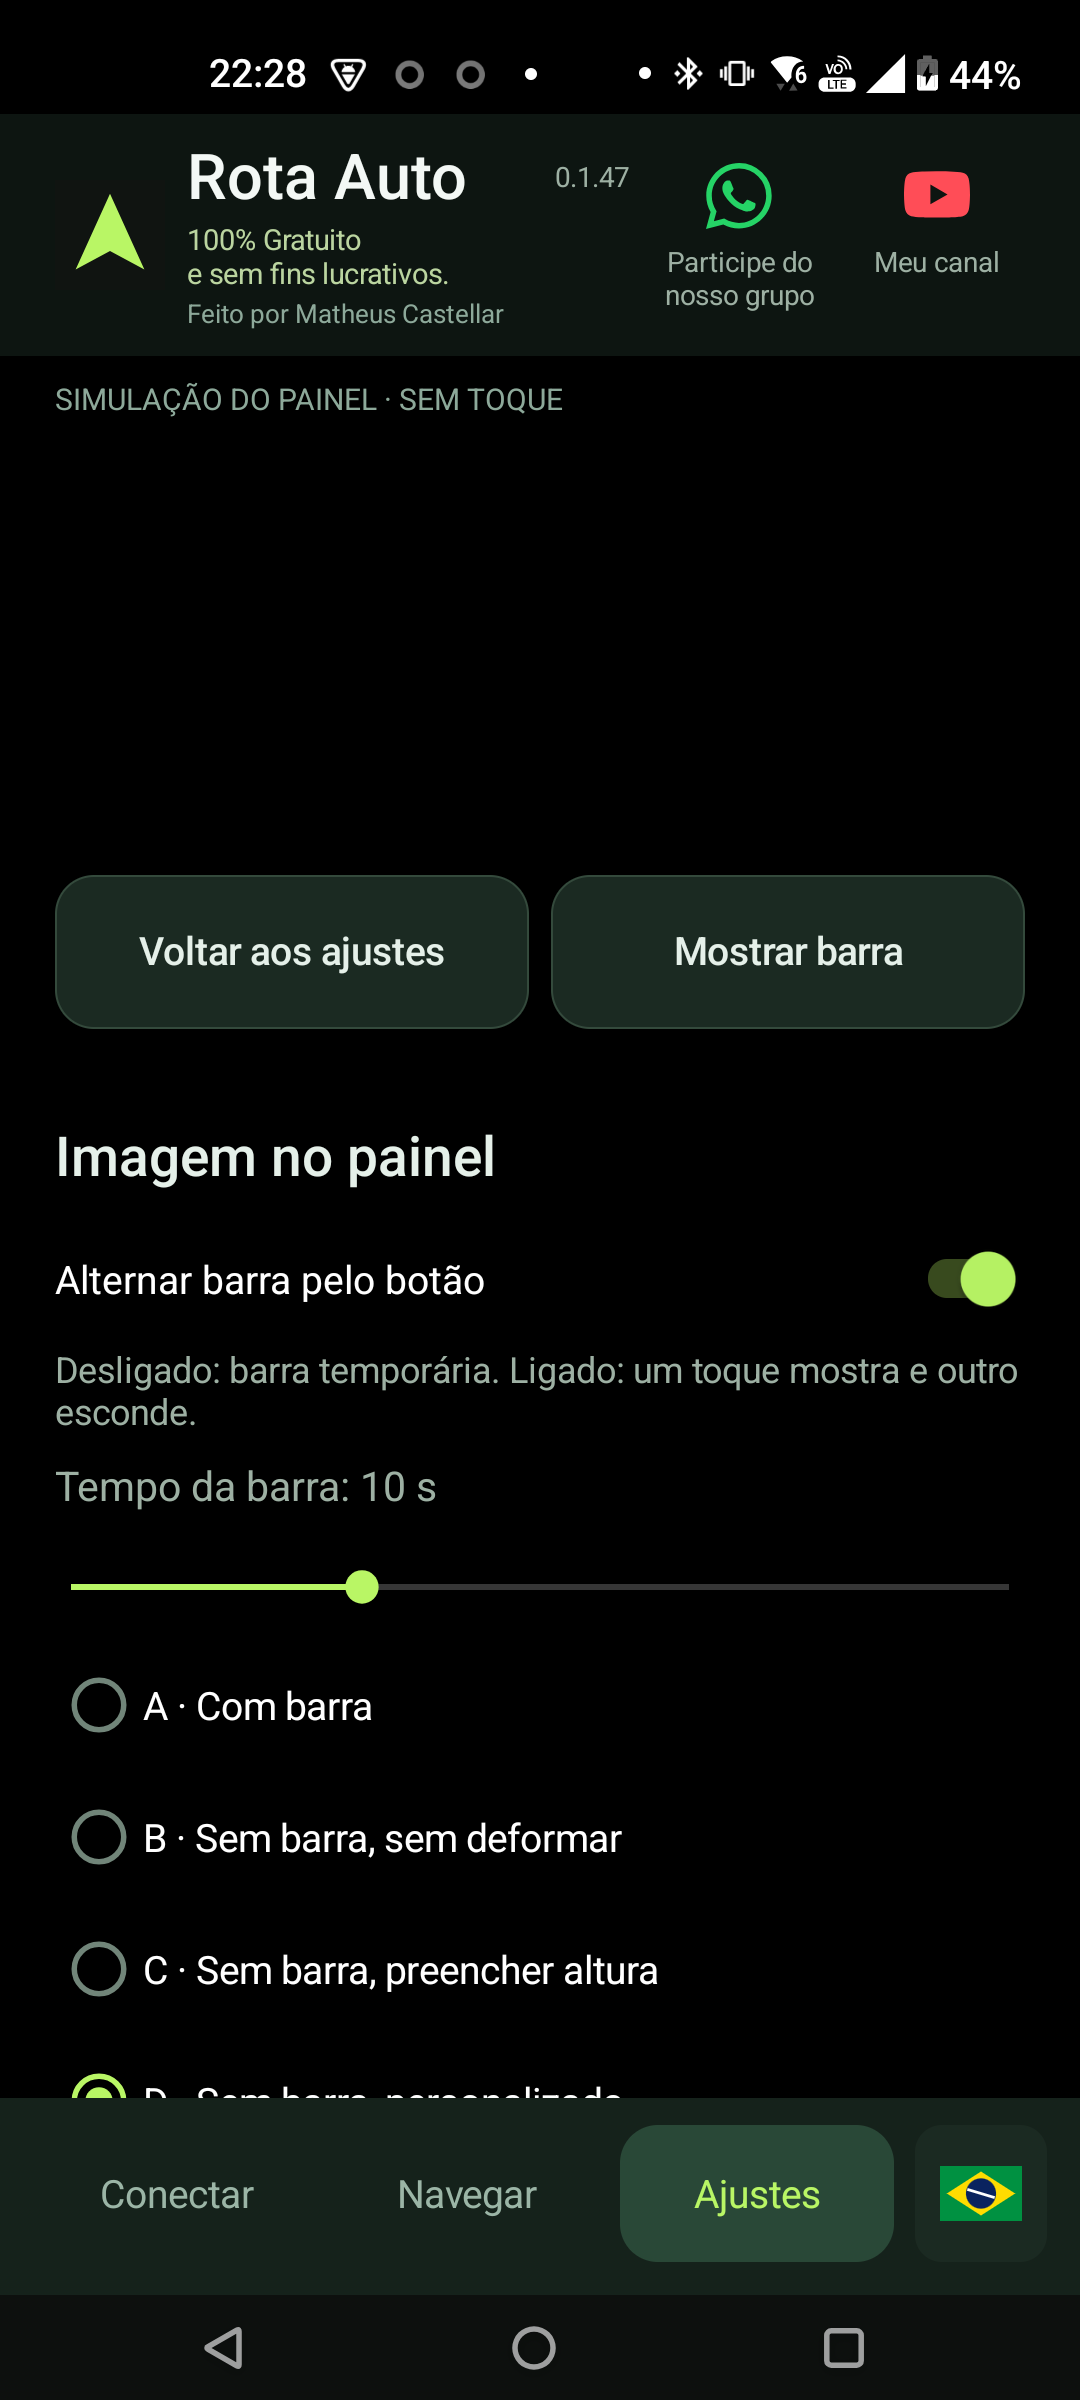
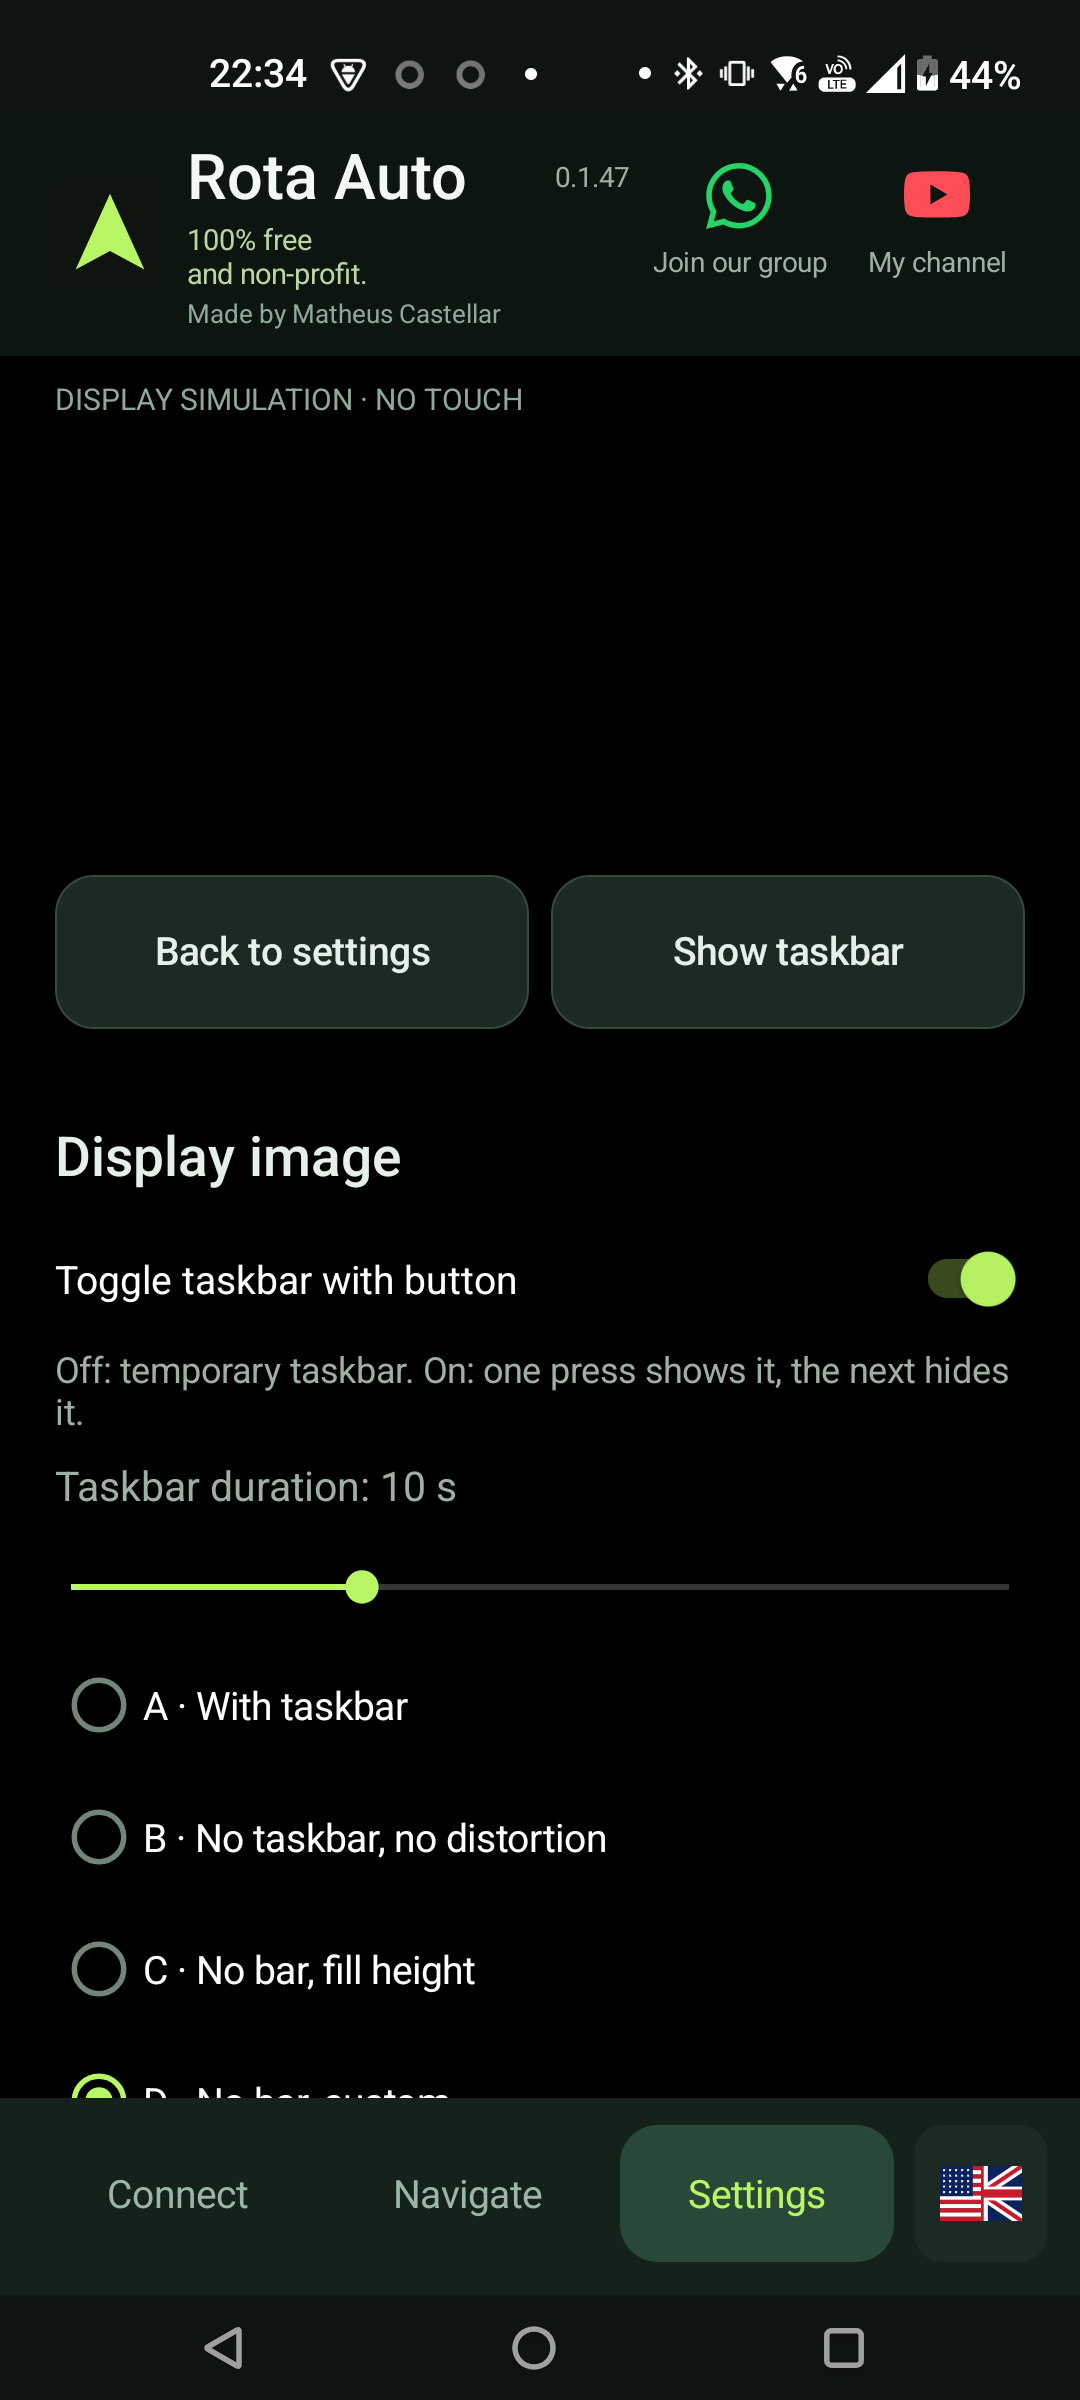
Use English app screenshots throughout both README galleries

diff --git a/README.md b/README.md
@@ -16,7 +16,59 @@ Rota Auto receives Android Auto video on the phone and streams it over the motor
 
 Choose the interface language from the flag button beside Settings. The app includes a language selector; the project documentation is available in English and Portuguese.
 
-[View current app screenshots and real dashboard photos in the Portuguese gallery](README.pt-BR.md#na-moto).
+<a href="docs/images/app-languages.png"><img src="docs/images/app-languages.png" width="260" alt="Rota Auto language selector: Brazilian Portuguese, English, Spanish and Hindi"></a>
+
+## On the motorcycle
+
+Real photos of Rota Auto running on a Guerrilla 450. The **Guerrilla logo, information widget and display layout are optional customizations**, not the default appearance.
+
+<table>
+  <tr><th>Spotify</th><th>Maps and music together</th></tr>
+  <tr>
+    <td><a href="docs/images/dashboard-spotify.jpg"><img src="docs/images/dashboard-spotify.jpg" height="360" alt="Spotify on Tripper Dash with the optional Guerrilla logo and information widget"></a></td>
+    <td><a href="docs/images/dashboard-maps-music.jpg"><img src="docs/images/dashboard-maps-music.jpg" height="360" alt="Android Auto split view with Google Maps and Spotify on the motorcycle"></a></td>
+  </tr>
+</table>
+
+## In the app
+
+Screenshots captured directly on the phone on **November 17, 2026**, running **0.1.47**, with the **interface in English** in both README versions. Click an image to enlarge it. The actions and values shown are customizable examples, not factory defaults.
+
+<table>
+  <tr><th>Connect</th><th>Profiles and control modes</th><th>Custom controls</th></tr>
+  <tr>
+    <td><a href="docs/images/app-connect.png"><img src="docs/images/app-connect.png" width="240" alt="Current Rota Auto connection screen"></a></td>
+    <td><a href="docs/images/app-menu-settings.png"><img src="docs/images/app-menu-settings.png" width="240" alt="Traditional mode, menu mode and renameable profiles"></a></td>
+    <td><a href="docs/images/app-controls.png"><img src="docs/images/app-controls.png" width="240" alt="Button actions and control preview options"></a></td>
+  </tr>
+</table>
+
+<details>
+<summary>View the circular control preview</summary>
+
+<a href="docs/images/app-command-preview.png"><img src="docs/images/app-command-preview.png" width="280" alt="Circular preview of the selected profile's controls"></a>
+
+</details>
+
+## Display customization
+
+Adjust image fitting, distortion, size and position, the motorcycle logo and the information widget. The logo and widget are optional. Projection is stopped in these screenshots, so the preview area is empty and reveals no location.
+
+<table>
+  <tr><th>Image fitting and distortion</th><th>Motorcycle logo</th><th>Information widget</th></tr>
+  <tr>
+    <td><a href="docs/images/app-geometry.png"><img src="docs/images/app-geometry.png" width="240" alt="Image distortion, width, height and position settings"></a></td>
+    <td><a href="docs/images/app-logo.png"><img src="docs/images/app-logo.png" width="240" alt="Optional Himalayan, Guerrilla or Bear logo with size and position settings"></a></td>
+    <td><a href="docs/images/app-widget.png"><img src="docs/images/app-widget.png" width="240" alt="Optional linear or square widget with size and height controls"></a></td>
+  </tr>
+</table>
+
+<details>
+<summary>View taskbar options and image modes</summary>
+
+<a href="docs/images/app-customization.png"><img src="docs/images/app-customization.png" width="280" alt="Taskbar visibility, display duration and image modes"></a>
+
+</details>
 
 ## Features
 

diff --git a/README.pt-BR.md b/README.pt-BR.md
@@ -32,7 +32,7 @@ Fotos reais do Rota Auto funcionando em uma Guerrilla 450. A **logo Guerrilla, o
 
 ## No aplicativo
 
-Capturas novas, feitas diretamente no celular em **17/11/2026**, com a versão **0.1.47**. Toque nas imagens para ampliar. As ações e os valores exibidos são exemplos personalizáveis, não os padrões de fábrica.
+Capturas novas, feitas diretamente no celular em **17/11/2026**, com a versão **0.1.47** e a **interface em inglês**, nas duas versões deste README. Toque nas imagens para ampliar. As ações e os valores exibidos são exemplos personalizáveis, não os padrões de fábrica.
 
 <table>
   <tr><th>Conectar</th><th>Perfis e modos de controle</th><th>Comandos personalizados</th></tr>
